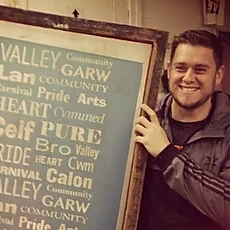
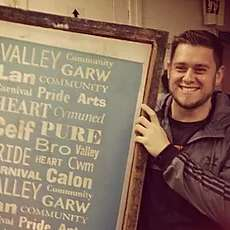
More image compression & amended email in quote submission

diff --git a/lps.html b/lps.html
@@ -98,7 +98,7 @@
         <span class="white-text-reset">Get a quote.</span>
         <p class="white-less-contrast-text-reset">Get a quotation for your new web solution. Due to our modular payment system not every job is priced differently. The more details you can provide - the more accurate the quote. </p>
         <p><b>07506782509</b></p>
-        <p><b>bsmedia@gmail.com</b></p>
+        <p><b>hello@blackskull.agency</b></p>
         <hr>
         <form action="https://formspree.io/mwkkqnrk" method="POST" class="quote">
           <label for="enquiry"><p class="white-text-reset margin-top margin-top-large-mobile-only small-bold-header">WHAT DO YOU NEED HELP WITH? *</p></label>
@@ -230,18 +230,18 @@
 
       <section class="grid-row grid-row-reset-3 lps-pink-background medium-gutter padding-bottom">
         <article class="grid-col grid-col-reset-3">
-          <img src="assets/img/luisa-wireframe-1.png" alt="A wireframe of the OVOC website" class="desktop-wireframe">
-          <img src="assets/img/luisa-wireframe-3.png" alt="A wireframe of the OVOC website" class="desktop-wireframe margin-top-3rem">
+          <img src="assets/img/luisa-wireframe-1.jpg" alt="A wireframe of the OVOC website" class="desktop-wireframe">
+          <img src="assets/img/luisa-wireframe-3.jpg" alt="A wireframe of the OVOC website" class="desktop-wireframe margin-top-3rem">
         </article>
         <article class="grid-col grid-col-reset-3 padding-top-large">
-          <img src="assets/img/luisa-wireframe-2.png" alt="A wireframe of the OVOC website" class="desktop-wireframe">
+          <img src="assets/img/luisa-wireframe-2.jpg" alt="A wireframe of the OVOC website" class="desktop-wireframe">
           <div class="grid-row padding-top">
             <article class="grid-col">
-              <img src="assets/img/luisa-wireframe-4.png" alt="A wireframe of the OVOC website" class="desktop-wireframe">
+              <img src="assets/img/luisa-wireframe-4.jpg" alt="A wireframe of the OVOC website" class="desktop-wireframe">
             </article>
             <article class="grid-col grid-flex-end">
               <div>
-                <img src="assets/img/luisa-wireframe-5.png" alt="A wireframe of the OVOC website" class="desktop-wireframe">
+                <img src="assets/img/luisa-wireframe-5.jpg" alt="A wireframe of the OVOC website" class="desktop-wireframe">
               </div>
             </article>
           </div>

diff --git a/pcss.html b/pcss.html
@@ -98,7 +98,7 @@
         <span class="white-text-reset">Get a quote.</span>
         <p class="white-less-contrast-text-reset">Get a quotation for your new web solution. Due to our modular payment system not every job is priced differently. The more details you can provide - the more accurate the quote. </p>
         <p><b>07506782509</b></p>
-        <p><b>bsmedia@gmail.com</b></p>
+        <p><b>hello@blackskull.agency</b></p>
         <hr>
         <form action="https://formspree.io/mwkkqnrk" method="POST" class="quote">
           <label for="enquiry"><p class="white-text-reset margin-top margin-top-large-mobile-only small-bold-header">WHAT DO YOU NEED HELP WITH? *</p></label>
@@ -232,10 +232,10 @@
 
       <section class="grid-row grid-row-reset-3 pcss-navy-background medium-gutter padding-bottom">
         <article class="grid-col grid-col-reset-3">
-          <img src="assets/img/pcss-wireframe-1.png" alt="A wireframe of the PCSS website" class="desktop-wireframe">
+          <img src="assets/img/pcss-wireframe-1.jpg" alt="A wireframe of the PCSS website" class="desktop-wireframe">
         </article>
         <article class="grid-col grid-col-reset-3 padding-top-large grid-flex-end">
-          <img src="assets/img/pcss-wireframe-2.png" alt="A wireframe of the PCSS website" class="desktop-wireframe">
+          <img src="assets/img/pcss-wireframe-2.jpg" alt="A wireframe of the PCSS website" class="desktop-wireframe">
         </article>
       </section>
 

diff --git a/ovoc.html b/ovoc.html
@@ -98,7 +98,7 @@
         <span class="white-text-reset">Get a quote.</span>
         <p class="white-less-contrast-text-reset">Get a quotation for your new web solution. Due to our modular payment system not every job is priced differently. The more details you can provide - the more accurate the quote. </p>
         <p><b>07506782509</b></p>
-        <p><b>bsmedia@gmail.com</b></p>
+        <p><b>hello@blackskull.agency</b></p>
         <hr>
         <form action="https://formspree.io/mwkkqnrk" method="POST" class="quote">
           <label for="enquiry"><p class="white-text-reset margin-top margin-top-large-mobile-only small-bold-header">WHAT DO YOU NEED HELP WITH? *</p></label>
@@ -288,10 +288,10 @@
 
       <section class="grid-row grid-row-reset-3 ovoc-green-background medium-gutter padding-bottom">
         <article class="grid-col grid-col-reset-3">
-          <img src="assets/img/ovoc-wireframe-1.png" alt="A wireframe of the OVOC website" class="desktop-wireframe">
+          <img src="assets/img/ovoc-wireframe-1.jpg" alt="A wireframe of the OVOC website" class="desktop-wireframe">
         </article>
         <article class="grid-col grid-col-reset-3 padding-top-large">
-          <img src="assets/img/ovoc-wireframe-2.png" alt="A wireframe of the OVOC website" class="desktop-wireframe">
+          <img src="assets/img/ovoc-wireframe-2.jpg" alt="A wireframe of the OVOC website" class="desktop-wireframe">
         </article>
       </section>
 

diff --git a/whatwedo.html b/whatwedo.html
@@ -98,7 +98,7 @@
         <span class="white-text-reset">Get a quote.</span>
         <p class="white-less-contrast-text-reset">Get a quotation for your new web solution. Due to our modular payment system not every job is priced differently. The more details you can provide - the more accurate the quote. </p>
         <p><b>07506782509</b></p>
-        <p><b>bsmedia@gmail.com</b></p>
+        <p><b>hello@blackskull.agency</b></p>
         <hr>
         <form action="https://formspree.io/mwkkqnrk" method="POST" class="quote" id="quote">
           <label for="enquiry"><p class="white-text-reset margin-top margin-top-large-mobile-only small-bold-header">WHAT DO YOU NEED HELP WITH? *</p></label>

diff --git a/benefits-of-a-professional-website.html b/benefits-of-a-professional-website.html
@@ -88,7 +88,7 @@
         <span class="white-text-reset">Get a quote.</span>
         <p class="white-less-contrast-text-reset">Get a quotation for your new web solution. Due to our modular payment system not every job is priced differently. The more details you can provide - the more accurate the quote. </p>
         <p><b>07506782509</b></p>
-        <p><b>bsmedia@gmail.com</b></p>
+        <p><b>hello@blackskull.agency</b></p>
         <hr>
         <form action="https://formspree.io/mwkkqnrk" method="POST" class="quote">
           <label for="enquiry"><p class="white-text-reset margin-top margin-top-large-mobile-only small-bold-header">WHAT DO YOU NEED HELP WITH? *</p></label>

diff --git a/blog.html b/blog.html
@@ -88,7 +88,7 @@
         <span class="white-text-reset">Get a quote.</span>
         <p class="white-less-contrast-text-reset">Get a quotation for your new web solution. Due to our modular payment system not every job is priced differently. The more details you can provide - the more accurate the quote. </p>
         <p><b>07506782509</b></p>
-        <p><b>bsmedia@gmail.com</b></p>
+        <p><b>hello@blackskull.agency</b></p>
         <hr>
         <form action="https://formspree.io/mwkkqnrk" method="POST" class="quote">
           <label for="enquiry"><p class="white-text-reset margin-top margin-top-large-mobile-only small-bold-header">WHAT DO YOU NEED HELP WITH? *</p></label>

diff --git a/consumer-decision-journey.html b/consumer-decision-journey.html
@@ -88,7 +88,7 @@
         <span class="white-text-reset">Get a quote.</span>
         <p class="white-less-contrast-text-reset">Get a quotation for your new web solution. Due to our modular payment system not every job is priced differently. The more details you can provide - the more accurate the quote. </p>
         <p><b>07506782509</b></p>
-        <p><b>bsmedia@gmail.com</b></p>
+        <p><b>hello@blackskull.agency</b></p>
         <hr>
         <form action="https://formspree.io/mwkkqnrk" method="POST" class="quote">
           <label for="enquiry"><p class="white-text-reset margin-top margin-top-large-mobile-only small-bold-header">WHAT DO YOU NEED HELP WITH? *</p></label>

diff --git a/content-marketing-for-smes.html b/content-marketing-for-smes.html
@@ -88,7 +88,7 @@
         <span class="white-text-reset">Get a quote.</span>
         <p class="white-less-contrast-text-reset">Get a quotation for your new web solution. Due to our modular payment system not every job is priced differently. The more details you can provide - the more accurate the quote. </p>
         <p><b>07506782509</b></p>
-        <p><b>bsmedia@gmail.com</b></p>
+        <p><b>hello@blackskull.agency</b></p>
         <hr>
         <form action="https://formspree.io/mwkkqnrk" method="POST" class="quote">
           <label for="enquiry"><p class="white-text-reset margin-top margin-top-large-mobile-only small-bold-header">WHAT DO YOU NEED HELP WITH? *</p></label>

diff --git a/cookies.html b/cookies.html
@@ -88,7 +88,7 @@
         <span class="white-text-reset">Get a quote.</span>
         <p class="white-less-contrast-text-reset">Get a quotation for your new web solution. Due to our modular payment system not every job is priced differently. The more details you can provide - the more accurate the quote. </p>
         <p><b>07506782509</b></p>
-        <p><b>bsmedia@gmail.com</b></p>
+        <p><b>hello@blackskull.agency</b></p>
         <hr>
         <form action="https://formspree.io/mwkkqnrk" method="POST" class="quote">
           <label for="enquiry"><p class="white-text-reset margin-top margin-top-large-mobile-only small-bold-header">WHAT DO YOU NEED HELP WITH? *</p></label>

diff --git a/data-policy.html b/data-policy.html
@@ -88,7 +88,7 @@
         <span class="white-text-reset">Get a quote.</span>
         <p class="white-less-contrast-text-reset">Get a quotation for your new web solution. Due to our modular payment system not every job is priced differently. The more details you can provide - the more accurate the quote. </p>
         <p><b>07506782509</b></p>
-        <p><b>bsmedia@gmail.com</b></p>
+        <p><b>hello@blackskull.agency</b></p>
         <hr>
         <form action="https://formspree.io/mwkkqnrk" method="POST" class="quote">
           <label for="enquiry"><p class="white-text-reset margin-top margin-top-large-mobile-only small-bold-header">WHAT DO YOU NEED HELP WITH? *</p></label>

diff --git a/faq.html b/faq.html
@@ -88,7 +88,7 @@
         <span class="white-text-reset">Get a quote.</span>
         <p class="white-less-contrast-text-reset">Get a quotation for your new web solution. Due to our modular payment system not every job is priced differently. The more details you can provide - the more accurate the quote. </p>
         <p><b>07506782509</b></p>
-        <p><b>bsmedia@gmail.com</b></p>
+        <p><b>hello@blackskull.agency</b></p>
         <hr>
         <form action="https://formspree.io/mwkkqnrk" method="POST" class="quote">
           <label for="enquiry"><p class="white-text-reset margin-top margin-top-large-mobile-only small-bold-header">WHAT DO YOU NEED HELP WITH? *</p></label>

diff --git a/index.html b/index.html
@@ -98,7 +98,7 @@
         <span class="white-text-reset">Get a quote.</span>
         <p class="white-less-contrast-text-reset">Get a quotation for your new web solution. Due to our modular payment system not every job is priced differently. The more details you can provide - the more accurate the quote. </p>
         <p><b>07506782509</b></p>
-        <p><b>bsmedia@gmail.com</b></p>
+        <p><b>hello@blackskull.agency</b></p>
         <hr>
         <form action="https://formspree.io/mwkkqnrk" method="POST" class="quote">
           <label for="enquiry"><p class="white-text-reset margin-top margin-top-large-mobile-only small-bold-header">WHAT DO YOU NEED HELP WITH? *</p></label>
